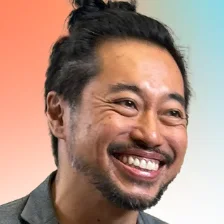
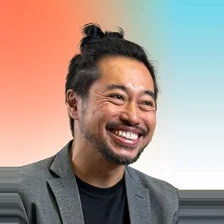
Update team section: add Camila and Manu, new roles and uniform photo crops
Reorder the team to Fabio, Camila, Flávia, Manu, Robert and Inara, update
roles in the markup and JSON-LD, show all six in one row on desktop, and
recrop every portrait so the head fills the circle in the same proportion.

diff --git a/public/index.html b/public/index.html
@@ -267,7 +267,7 @@
       "@type": "Person",
       "@id": "{{SITE_URL}}/#fabio-tran",
       "name": "Fabio Tran",
-      "jobTitle": "Diretor",
+      "jobTitle": "Diretor Executivo",
       "affiliation": {
         "@id": "{{SITE_URL}}/#organization"
       },
@@ -275,9 +275,19 @@
     },
     {
       "@type": "Person",
+      "@id": "{{SITE_URL}}/#camila-jankavski",
+      "name": "Camila Jankavski",
+      "jobTitle": "Gerente de Design",
+      "affiliation": {
+        "@id": "{{SITE_URL}}/#organization"
+      },
+      "image": "{{SITE_URL}}/assets/img/equipe-camila-jankavski.webp"
+    },
+    {
+      "@type": "Person",
       "@id": "{{SITE_URL}}/#flavia-goulart",
       "name": "Flávia Goulart Jesus Pinto",
-      "jobTitle": "Gerente de Redes e Parcerias",
+      "jobTitle": "Gerente de Parcerias",
       "affiliation": {
         "@id": "{{SITE_URL}}/#organization"
       },
@@ -285,23 +295,33 @@
     },
     {
       "@type": "Person",
-      "@id": "{{SITE_URL}}/#inara-velasco",
-      "name": "Inara Arruda Velasco",
-      "jobTitle": "Analista",
+      "@id": "{{SITE_URL}}/#manu-hardt",
+      "name": "Manu Hardt",
+      "jobTitle": "Gerente de Estratégia, Busca e Seleção",
       "affiliation": {
         "@id": "{{SITE_URL}}/#organization"
       },
-      "image": "{{SITE_URL}}/assets/img/equipe-inara-velasco.webp"
+      "image": "{{SITE_URL}}/assets/img/equipe-manu-hardt.webp"
     },
     {
       "@type": "Person",
       "@id": "{{SITE_URL}}/#robert-parkinson",
       "name": "Robert Parkinson",
-      "jobTitle": "PMO",
+      "jobTitle": "Gerente de Redes e Comunidade",
       "affiliation": {
         "@id": "{{SITE_URL}}/#organization"
       },
       "image": "{{SITE_URL}}/assets/img/equipe-robert-parkinson.webp"
+    },
+    {
+      "@type": "Person",
+      "@id": "{{SITE_URL}}/#inara-velasco",
+      "name": "Inara Arruda Velasco",
+      "jobTitle": "Analista de Projetos",
+      "affiliation": {
+        "@id": "{{SITE_URL}}/#organization"
+      },
+      "image": "{{SITE_URL}}/assets/img/equipe-inara-velasco.webp"
     }
   ]
 }
@@ -852,8 +872,9 @@
     /* =========================================================
        EQUIPE
        ========================================================= */
-    .equipe { display: grid; gap: var(--s-5) var(--s-3); grid-template-columns: repeat(2, minmax(0, 1fr)); max-width: 820px; }
-    @media (min-width: 640px) { .equipe { grid-template-columns: repeat(4, minmax(0, 1fr)); gap: var(--s-4); } }
+    .equipe { display: grid; gap: var(--s-5) var(--s-3); grid-template-columns: repeat(2, minmax(0, 1fr)); }
+    @media (min-width: 640px) { .equipe { grid-template-columns: repeat(3, minmax(0, 1fr)); gap: var(--s-4); } }
+    @media (min-width: 960px) { .equipe { grid-template-columns: repeat(6, minmax(0, 1fr)); gap: var(--s-3); } }
     .equipe li { text-align: center; }
     .equipe img { width: 112px; height: 112px; border-radius: 50%; object-fit: cover; margin: 0 auto var(--s-2); display: block; }
     .equipe-nome { font-weight: 600; line-height: 1.25; }
@@ -1388,24 +1409,34 @@
 
         <ul class="equipe">
           <li>
-            <img src="assets/img/equipe-fabio-tran.webp" alt="Retrato de Fabio Tran, diretor do CMe" width="224" height="224" loading="lazy" decoding="async">
+            <img src="assets/img/equipe-fabio-tran.webp" alt="Retrato de Fabio Tran, diretor executivo do CMe" width="224" height="224" loading="lazy" decoding="async">
             <p class="equipe-nome">Fabio Tran</p>
-            <p class="equipe-cargo">Diretor</p>
+            <p class="equipe-cargo">Diretor Executivo</p>
           </li>
           <li>
-            <img src="assets/img/equipe-flavia-goulart.webp" alt="Retrato de Flávia Goulart Jesus Pinto, gerente de Redes e Parcerias do CMe" width="224" height="224" loading="lazy" decoding="async">
+            <img src="assets/img/equipe-camila-jankavski.webp" alt="Retrato de Camila Jankavski, gerente de Design do CMe" width="224" height="224" loading="lazy" decoding="async">
+            <p class="equipe-nome">Camila Jankavski</p>
+            <p class="equipe-cargo">Gerente de Design</p>
+          </li>
+          <li>
+            <img src="assets/img/equipe-flavia-goulart.webp" alt="Retrato de Flávia Goulart Jesus Pinto, gerente de Parcerias do CMe" width="224" height="224" loading="lazy" decoding="async">
             <p class="equipe-nome">Flávia Goulart Jesus Pinto</p>
-            <p class="equipe-cargo">Gerente de Redes e Parcerias</p>
+            <p class="equipe-cargo">Gerente de Parcerias</p>
           </li>
           <li>
-            <img src="assets/img/equipe-inara-velasco.webp" alt="Retrato de Inara Arruda Velasco, analista do CMe" width="224" height="224" loading="lazy" decoding="async">
-            <p class="equipe-nome">Inara Arruda Velasco</p>
-            <p class="equipe-cargo">Analista</p>
+            <img src="assets/img/equipe-manu-hardt.webp" alt="Retrato de Manu Hardt, gerente de Estratégia, Busca e Seleção do CMe" width="224" height="224" loading="lazy" decoding="async">
+            <p class="equipe-nome">Manu Hardt</p>
+            <p class="equipe-cargo">Gerente de Estratégia, Busca e Seleção</p>
           </li>
           <li>
-            <img src="assets/img/equipe-robert-parkinson.webp" alt="Retrato de Robert Parkinson, PMO do CMe" width="224" height="224" loading="lazy" decoding="async">
+            <img src="assets/img/equipe-robert-parkinson.webp" alt="Retrato de Robert Parkinson, gerente de Redes e Comunidade do CMe" width="224" height="224" loading="lazy" decoding="async">
             <p class="equipe-nome">Robert Parkinson</p>
-            <p class="equipe-cargo">PMO</p>
+            <p class="equipe-cargo">Gerente de Redes e Comunidade</p>
+          </li>
+          <li>
+            <img src="assets/img/equipe-inara-velasco.webp" alt="Retrato de Inara Arruda Velasco, analista de Projetos do CMe" width="224" height="224" loading="lazy" decoding="async">
+            <p class="equipe-nome">Inara Arruda Velasco</p>
+            <p class="equipe-cargo">Analista de Projetos</p>
           </li>
         </ul>
       </div>
